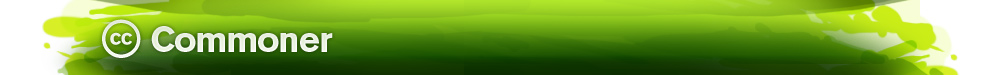
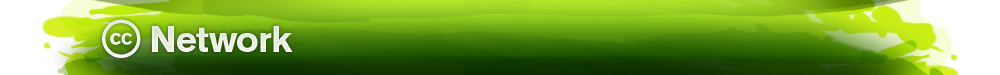
Revised header (commoner -> network) and edit spot; Fixed licensed works li style.

Changed region(s): [[0.124, 0.3467, 0.341, 0.6933]]

diff --git a/static/m/css/style.css b/static/m/css/style.css
@@ -256,8 +256,10 @@ ul.licensed-works {
 }
 
 ul.licensed-works li {
+	margin-bottom: 0.75em;
 	padding: 0.25em 0;
-	border-bottom: 1px solid #ccc;
+	padding-bottom: 1em;
+	border-bottom: 1px solid #d4d4d4;
 }
 
 ul.licensed-works li.last {
